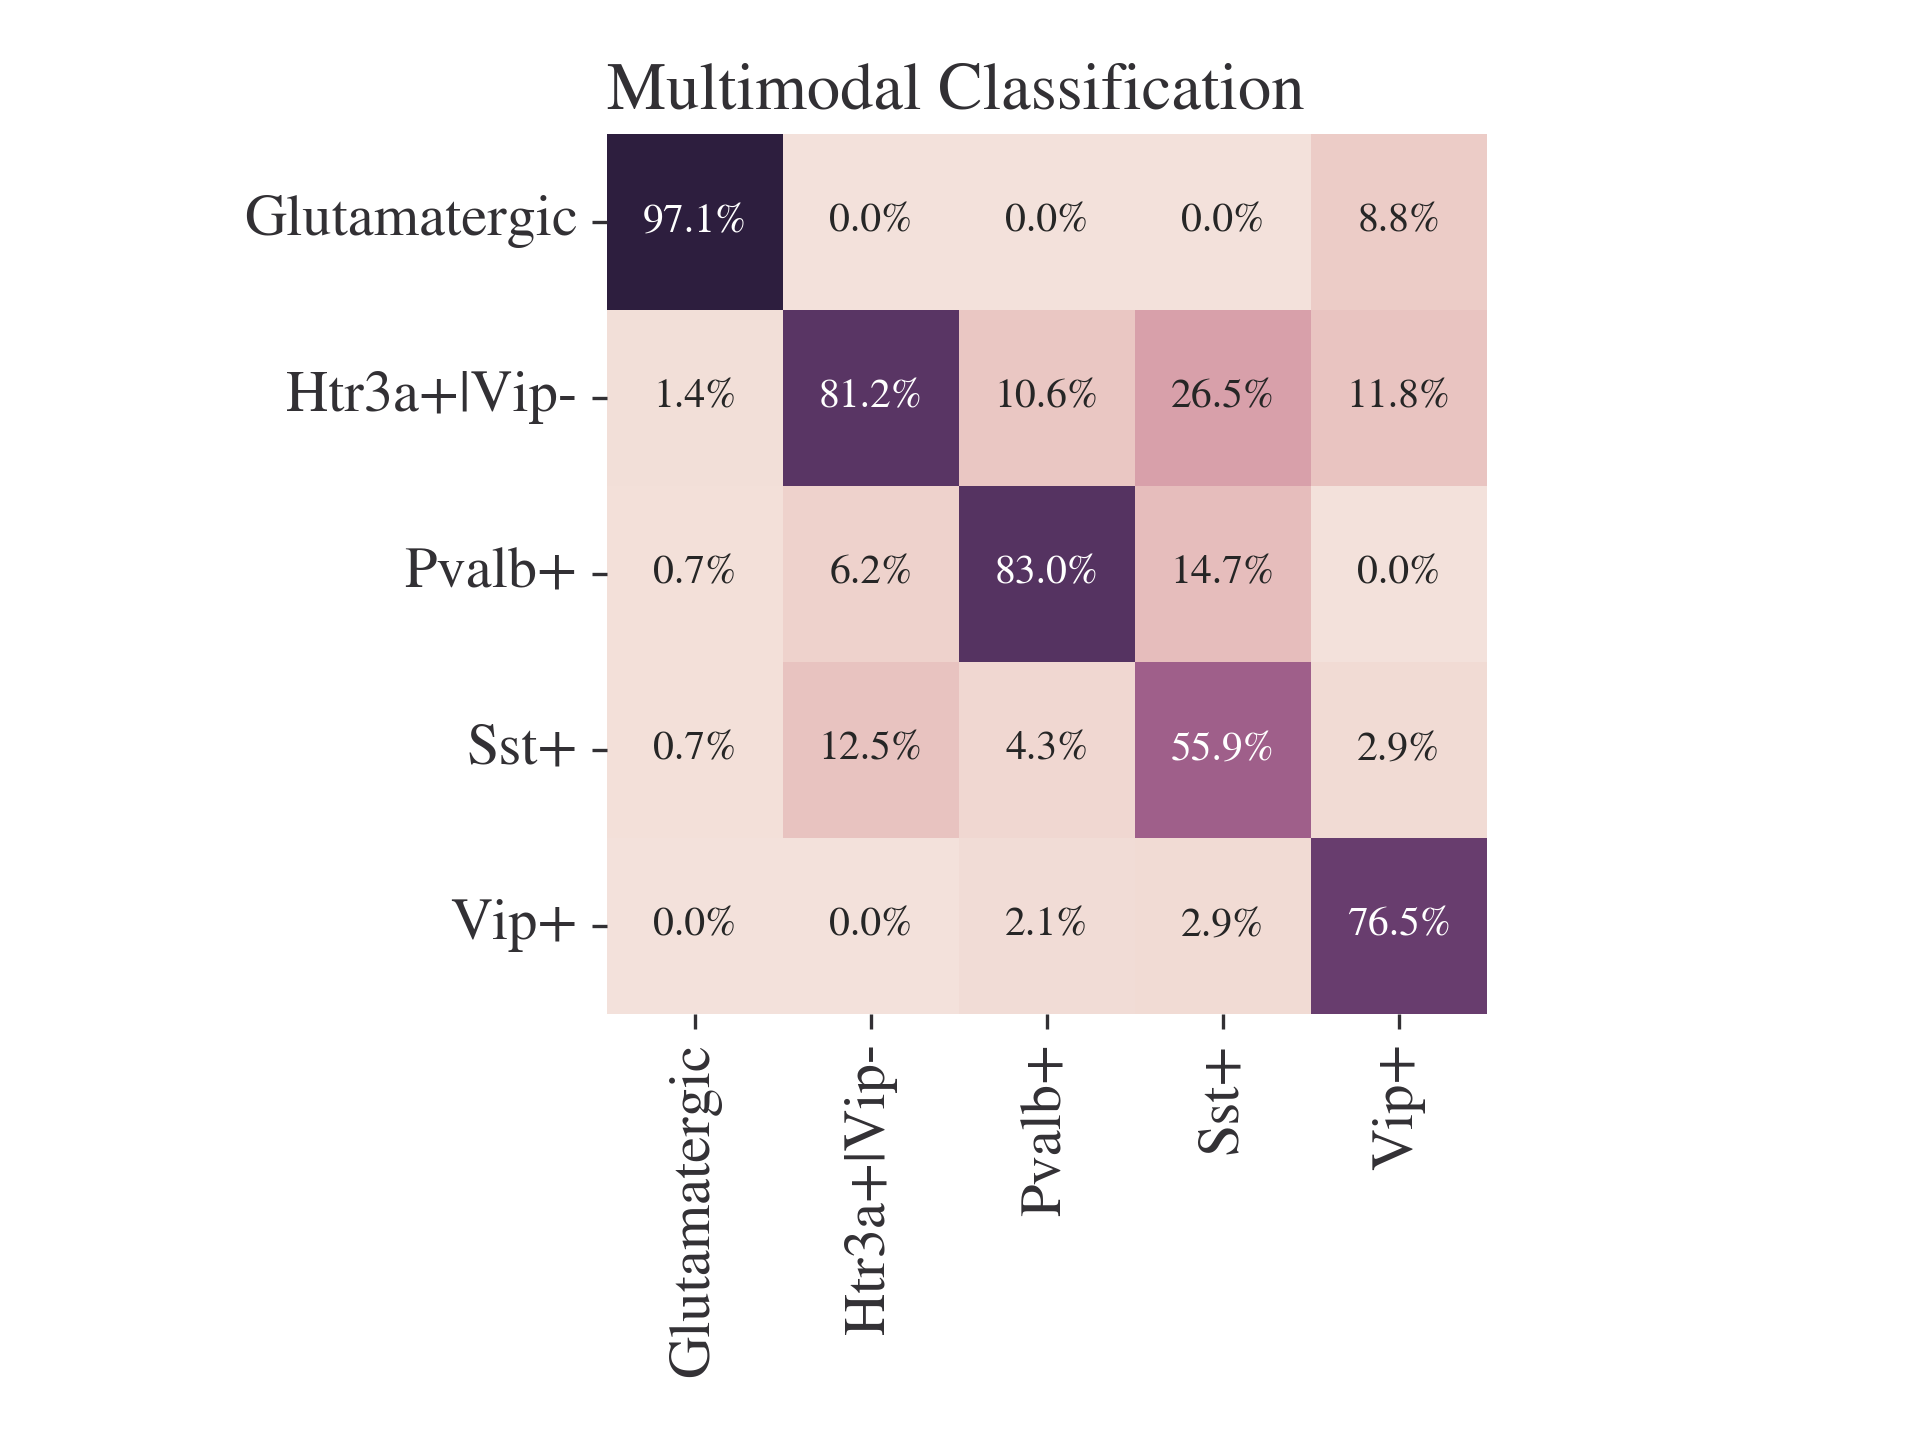
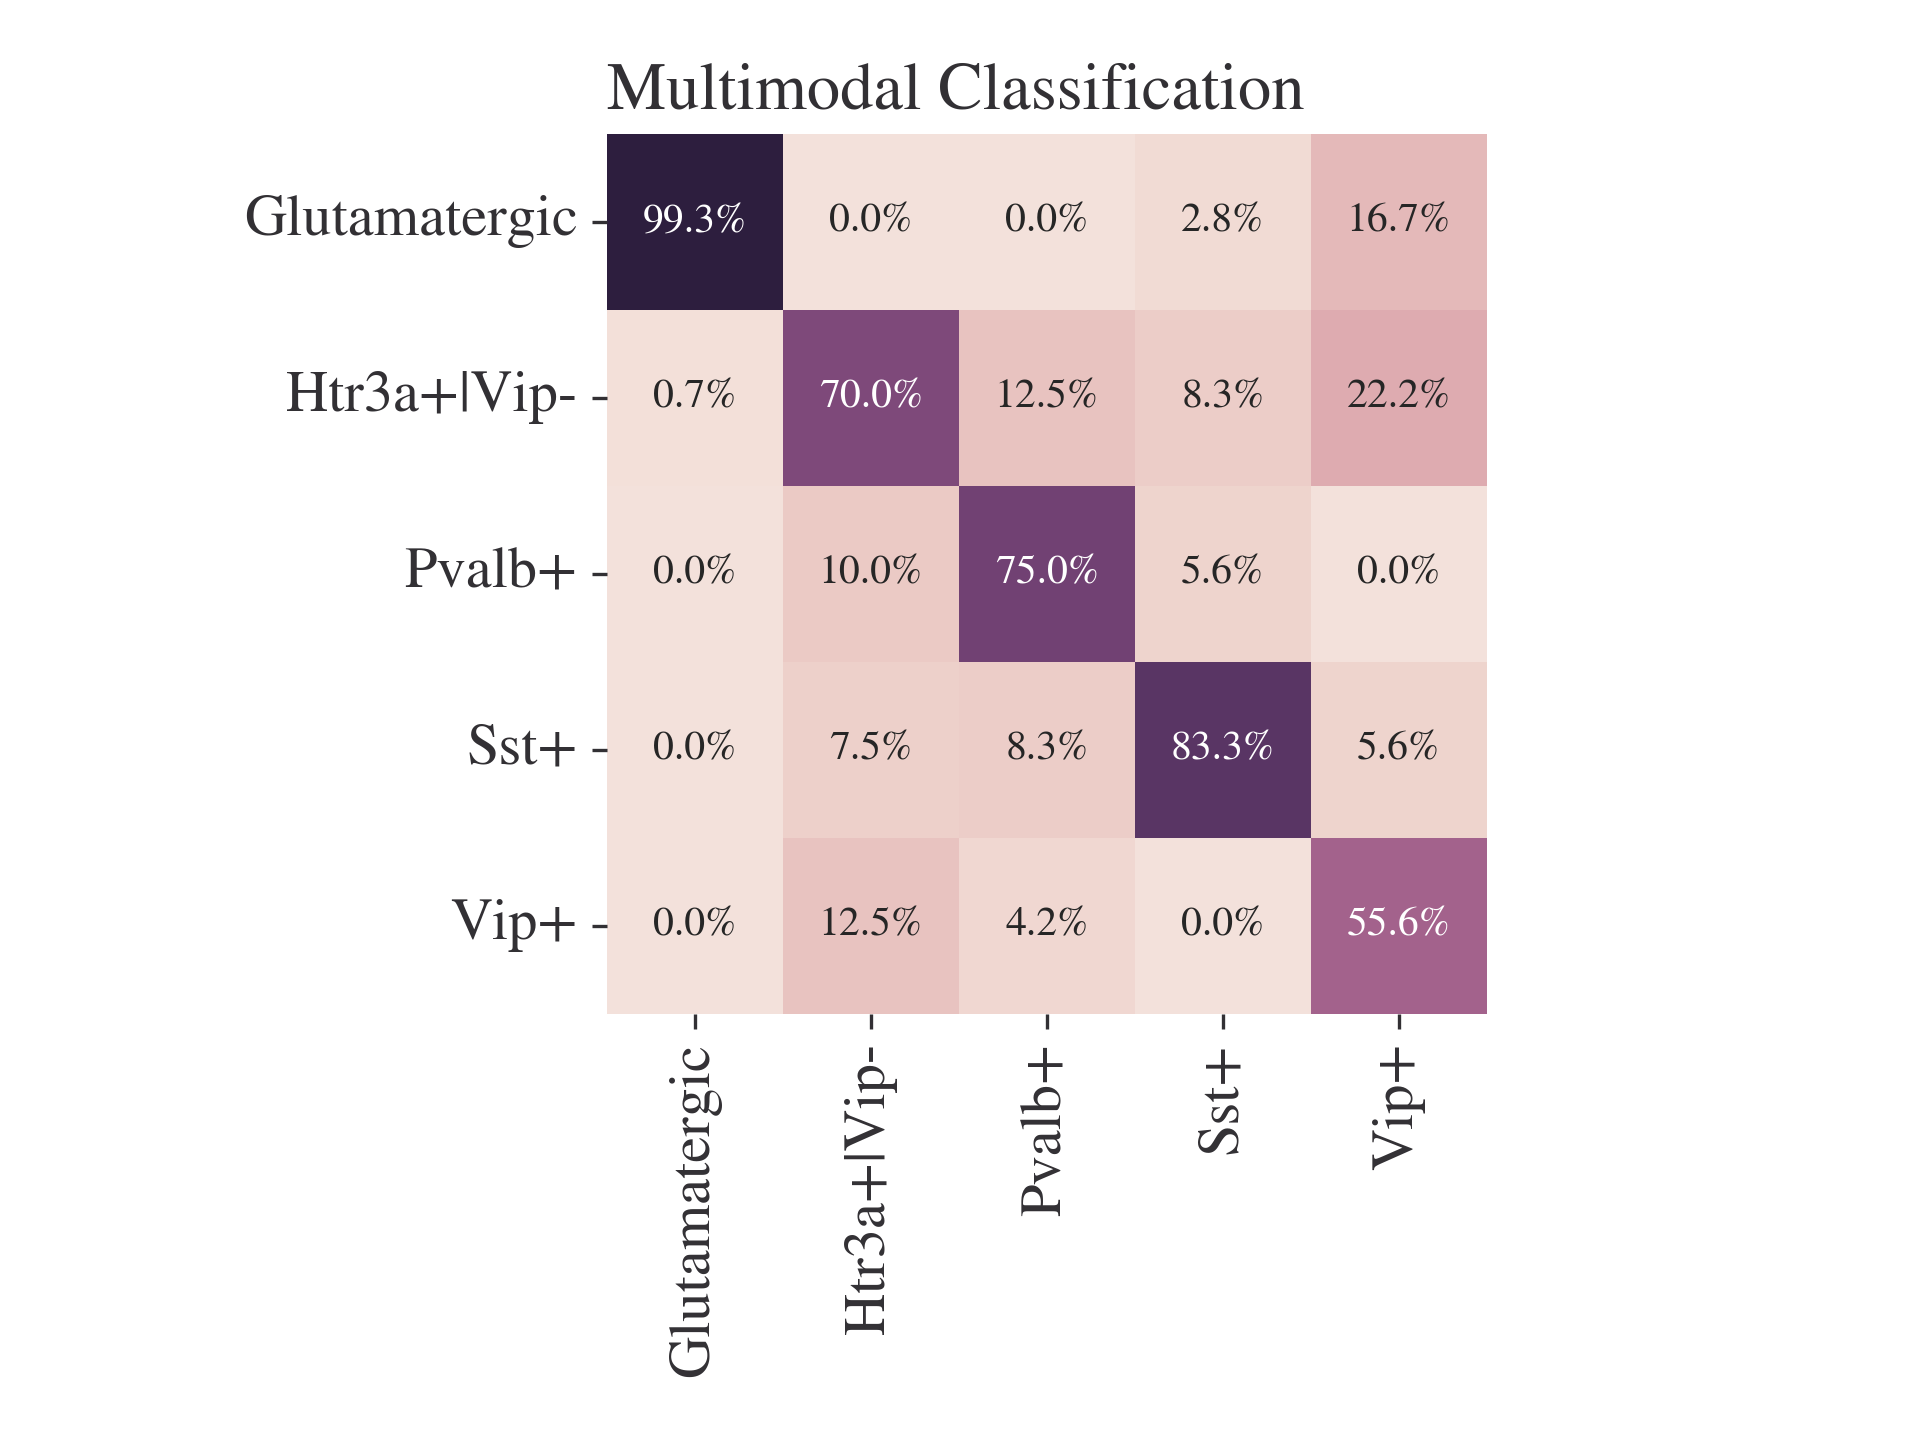
results after running optuna on the single spike model for 400 trials, 86.3% accuracy

diff --git a/single_spike_multimodal.py b/single_spike_multimodal.py
@@ -511,7 +511,7 @@ def test_model():
 
 
 def main():
-    train_model()
+    # train_model()
     test_model()
 
 
